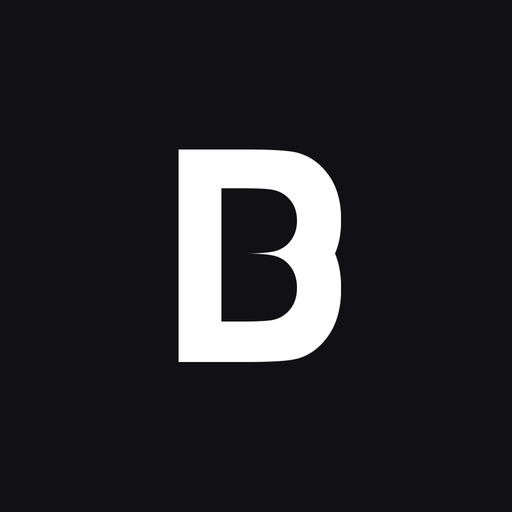
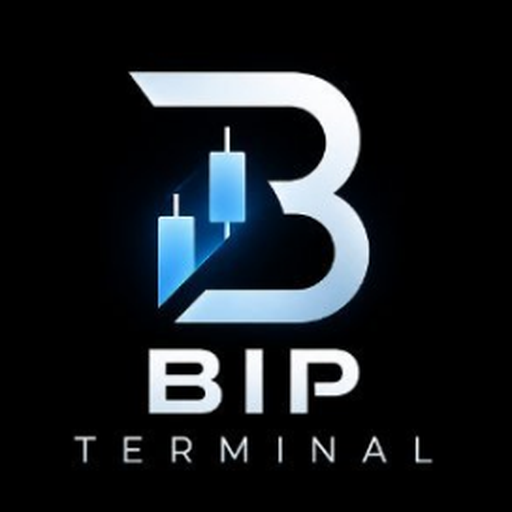
"Ana Ekrana Ekle" ipucu + ikonlar yeni logodan uretildi
Kullanici ucretli Apple Developer uyeligi istemedigi icin iOS'ta PWA
yolunda devam ediliyor (imzali .ipa'nin baska yolu yok - Apple imzasiz
uygulamanin telefonda kalmasina izin vermiyor).

## Kurulum ipucu

Uygulama PWA olarak kurulabilir durumdaydi (manifest,
apple-mobile-web-app-capable, standalone) AMA iOS Safari kurulumu
KENDILIGINDEN ONERMIYOR - kullanicinin Paylas > "Ana Ekrana Ekle"
adimlarini bilmesi gerekiyor. Bilmiyorsa uygulama hic kurulmuyordu: ozellik
teknik olarak vardi, pratikte kimse kullanmiyordu.

Iki platform, iki farkli yol:
- Android/masaustu Chrome: `beforeinstallprompt` GERCEK kurulum diyalogu
  acabiliyor -> tek tus.
- iOS Safari: boyle bir API YOK (Apple vermiyor) -> yalnizca adimlar
  anlatilabiliyor.

Gosterilmedigi durumlar (karar mantigi saf bir fonksiyona ayrildi ve 9
senaryoyla test edildi):
- Zaten kurulu (iOS'un kendi `navigator.standalone` bayragi ya da
  display-mode: standalone)
- Kullanici bir kez kapatmis (localStorage)
- iOS ama Instagram/Facebook/Twitter gibi UYGULAMA-ICI tarayici: orada
  "Ana Ekrana Ekle" secenegi YOK, anlatmak yanlis yonlendirme olurdu.

Tarayicida dogrulandi: ipucu tab bar'in ustunde dogru konumda cikiyor,
yukleme butonu calisiyor.

Not: AuthGate, AppChrome'u sardigi icin ipucu GIRIS EKRANINDA cikmiyor -
public rotalarda ve oturum acikken cikiyor. Henuz uye olmamis birine
kullanamayacagi bir uygulamayi kurdurmanin anlami yok.

## Ikonlar

Kullanici yeni BIP Terminal logosunu public/logo.png olarak koymustu ama
[…]

diff --git a/frontend/src/components/InstallPrompt.tsx b/frontend/src/components/InstallPrompt.tsx
@@ -1,0 +1,149 @@
+"use client"
+
+import React, { useEffect, useState } from "react"
+import { X, Share, Plus, Download } from "lucide-react"
+
+/**
+ * "Uygulamayı yükle" ipucu.
+ *
+ * NEDEN GEREKLİ: uygulama PWA olarak kurulabilir durumda (manifest,
+ * apple-mobile-web-app-capable, standalone) ama iOS Safari kurulum
+ * ÖNERMİYOR - kullanıcının Paylaş > "Ana Ekrana Ekle" adımlarını kendisi
+ * bilmesi gerekiyor. Bilmiyorsa uygulama hiç kurulmuyor; özellik teknik
+ * olarak var ama pratikte kimse kullanmıyor.
+ *
+ * İki farklı platform, iki farklı yol:
+ *  - Android/masaüstü Chrome: `beforeinstallprompt` GERÇEK bir kurulum
+ *    diyaloğu açabiliyor -> tek tuş.
+ *  - iOS Safari: böyle bir API YOK (Apple vermiyor) -> yalnızca adımları
+ *    anlatabiliyoruz.
+ *
+ * Gösterilmediği durumlar:
+ *  - Zaten kurulu (standalone modda açılmış)
+ *  - Kullanıcı bir kez kapatmış (localStorage)
+ *  - iOS ama Safari değil: Instagram/Twitter gibi uygulama-içi tarayıcılarda
+ *    "Ana Ekrana Ekle" seçeneği YOK, anlatmak yanlış yönlendirme olurdu.
+ */
+const DISMISS_KEY = "bip_install_hint_dismissed"
+
+export type Mode = "none" | "ios" | "prompt"
+
+/** Kimin ne gorecegine karar veren SAF fonksiyon - test edilebilir olsun
+ *  diye bilesenden ayri. "prompt" yalnizca bir ADAY: gercek kurulum
+ *  diyalogu ancak tarayici `beforeinstallprompt` atarsa acilabiliyor. */
+export function decideInstallMode(opts: {
+  userAgent: string
+  standalone: boolean
+  dismissed: boolean
+}): Mode {
+  if (opts.dismissed) return "none"
+  if (opts.standalone) return "none"          // zaten kurulu
+
+  const ua = opts.userAgent
+  if (/iphone|ipad|ipod/i.test(ua)) {
+    // Uygulama-ici tarayicilarda "Ana Ekrana Ekle" YOK - anlatmak yanlis
+    // yonlendirme olurdu.
+    if (/(FBAN|FBAV|Instagram|Twitter|Line\/|MicroMessenger)/i.test(ua)) return "none"
+    return "ios"
+  }
+  return "prompt"
+}
+
+export default function InstallPrompt() {
+  const [mode, setMode] = useState<Mode>("none")
+  const [deferred, setDeferred] = useState<any>(null)
+
+  useEffect(() => {
+    try {
+      if (localStorage.getItem(DISMISS_KEY) === "1") return
+    } catch {
+      // Depolama kapaliysa ipucu yine gosterilir - zararsiz.
+    }
+
+    // Zaten kurulu mu? iOS kendi ozel bayragini kullaniyor, digerleri
+    // display-mode medya sorgusunu.
+    const nav = window.navigator as any
+    const standalone =
+      nav.standalone === true ||
+      window.matchMedia?.("(display-mode: standalone)")?.matches === true
+    if (standalone) return
+
+    const decided = decideInstallMode({
+      userAgent: navigator.userAgent,
+      standalone,
+      dismissed: false,   // yukarida zaten kontrol edildi
+    })
+    if (decided === "none") return
+    if (decided === "ios") {
+      setMode("ios")
+      return
+    }
+
+    // "prompt": Android/masaustu Chrome. Butonu ancak tarayici gercekten
+    // beforeinstallprompt atarsa gosteriyoruz - atmazsa (orn. zaten kurulu
+    // ya da kriterler saglanmiyor) hicbir sey cikmiyor.
+    const onPrompt = (e: Event) => {
+      e.preventDefault()          // tarayicinin kendi cubugu yerine bizimki
+      setDeferred(e)
+      setMode("prompt")
+    }
+    window.addEventListener("beforeinstallprompt", onPrompt)
+    return () => window.removeEventListener("beforeinstallprompt", onPrompt)
+  }, [])
+
+  const dismiss = () => {
+    setMode("none")
+    try { localStorage.setItem(DISMISS_KEY, "1") } catch {}
+  }
+
+  const install = async () => {
+    if (!deferred) return
+    deferred.prompt()
+    try { await deferred.userChoice } catch {}
+    dismiss()
+  }
+
+  if (mode === "none") return null
+
+  return (
+    <div className="fixed inset-x-0 bottom-0 z-40 lg:hidden pb-[min(env(safe-area-inset-bottom),8px)]">
+      <div className="mx-3 mb-16 rounded-xl border border-border bg-background/95 backdrop-blur-md shadow-[var(--elev-3)] p-3">
+        <div className="flex items-start gap-3">
+          <div className="h-9 w-9 rounded-lg overflow-hidden shrink-0 border border-border/50">
+            <img src="/logo.png" alt="" className="h-full w-full object-cover" />
+          </div>
+
+          <div className="min-w-0 flex-1">
+            <p className="text-sm font-bold text-foreground leading-tight">
+              BIP Terminal&apos;i telefonuna ekle
+            </p>
+
+            {mode === "ios" ? (
+              <p className="text-xs text-muted-foreground mt-1 leading-relaxed">
+                Safari&apos;de alttaki <Share className="inline h-3.5 w-3.5 -mt-0.5" /> düğmesine
+                bas, sonra <span className="font-semibold text-foreground">
+                <Plus className="inline h-3.5 w-3.5 -mt-0.5" /> Ana Ekrana Ekle</span> seçeneğini
+                seç. Tam ekran, kendi ikonuyla açılır.
+              </p>
+            ) : (
+              <button
+                onClick={install}
+                className="press mt-2 inline-flex items-center gap-1.5 h-8 px-3 rounded-md bg-primary text-primary-foreground text-xs font-bold cursor-pointer"
+              >
+                <Download className="h-3.5 w-3.5" /> Uygulamayı Yükle
+              </button>
+            )}
+          </div>
+
+          <button
+            onClick={dismiss}
+            aria-label="Kapat"
+            className="text-muted-foreground/60 hover:text-foreground transition-colors cursor-pointer shrink-0"
+          >
+            <X className="h-4 w-4" />
+          </button>
+        </div>
+      </div>
+    </div>
+  )
+}

diff --git a/frontend/src/components/AppChrome.tsx b/frontend/src/components/AppChrome.tsx
@@ -7,6 +7,7 @@ import Sidebar from "@/components/Sidebar"
 import Header from "@/components/Header"
 import Footer from "@/components/Footer"
 import MobileTabBar from "@/components/MobileTabBar"
+import InstallPrompt from "@/components/InstallPrompt"
 import CommandPalette from "@/components/CommandPalette"
 import { useReveal, useSpotlight } from "@/lib/useReveal"
 
@@ -137,6 +138,11 @@ export default function AppChrome({ children }: AppChromeProps) {
         </main>
       </div>
       <MobileTabBar onMoreClick={() => setMobileMenuOpen(true)} drawerOpen={mobileMenuOpen} />
+
+      {/* "Ana Ekrana Ekle" ipucu - iOS Safari kurulumu kendiliginden
+          ONERMIYOR, kullanicinin adimlari bilmesi gerekiyor. Zaten kuruluysa
+          ya da bir kez kapatildiysa hic gorunmuyor. */}
+      <InstallPrompt />
       <CommandPalette />
     </>
   )
